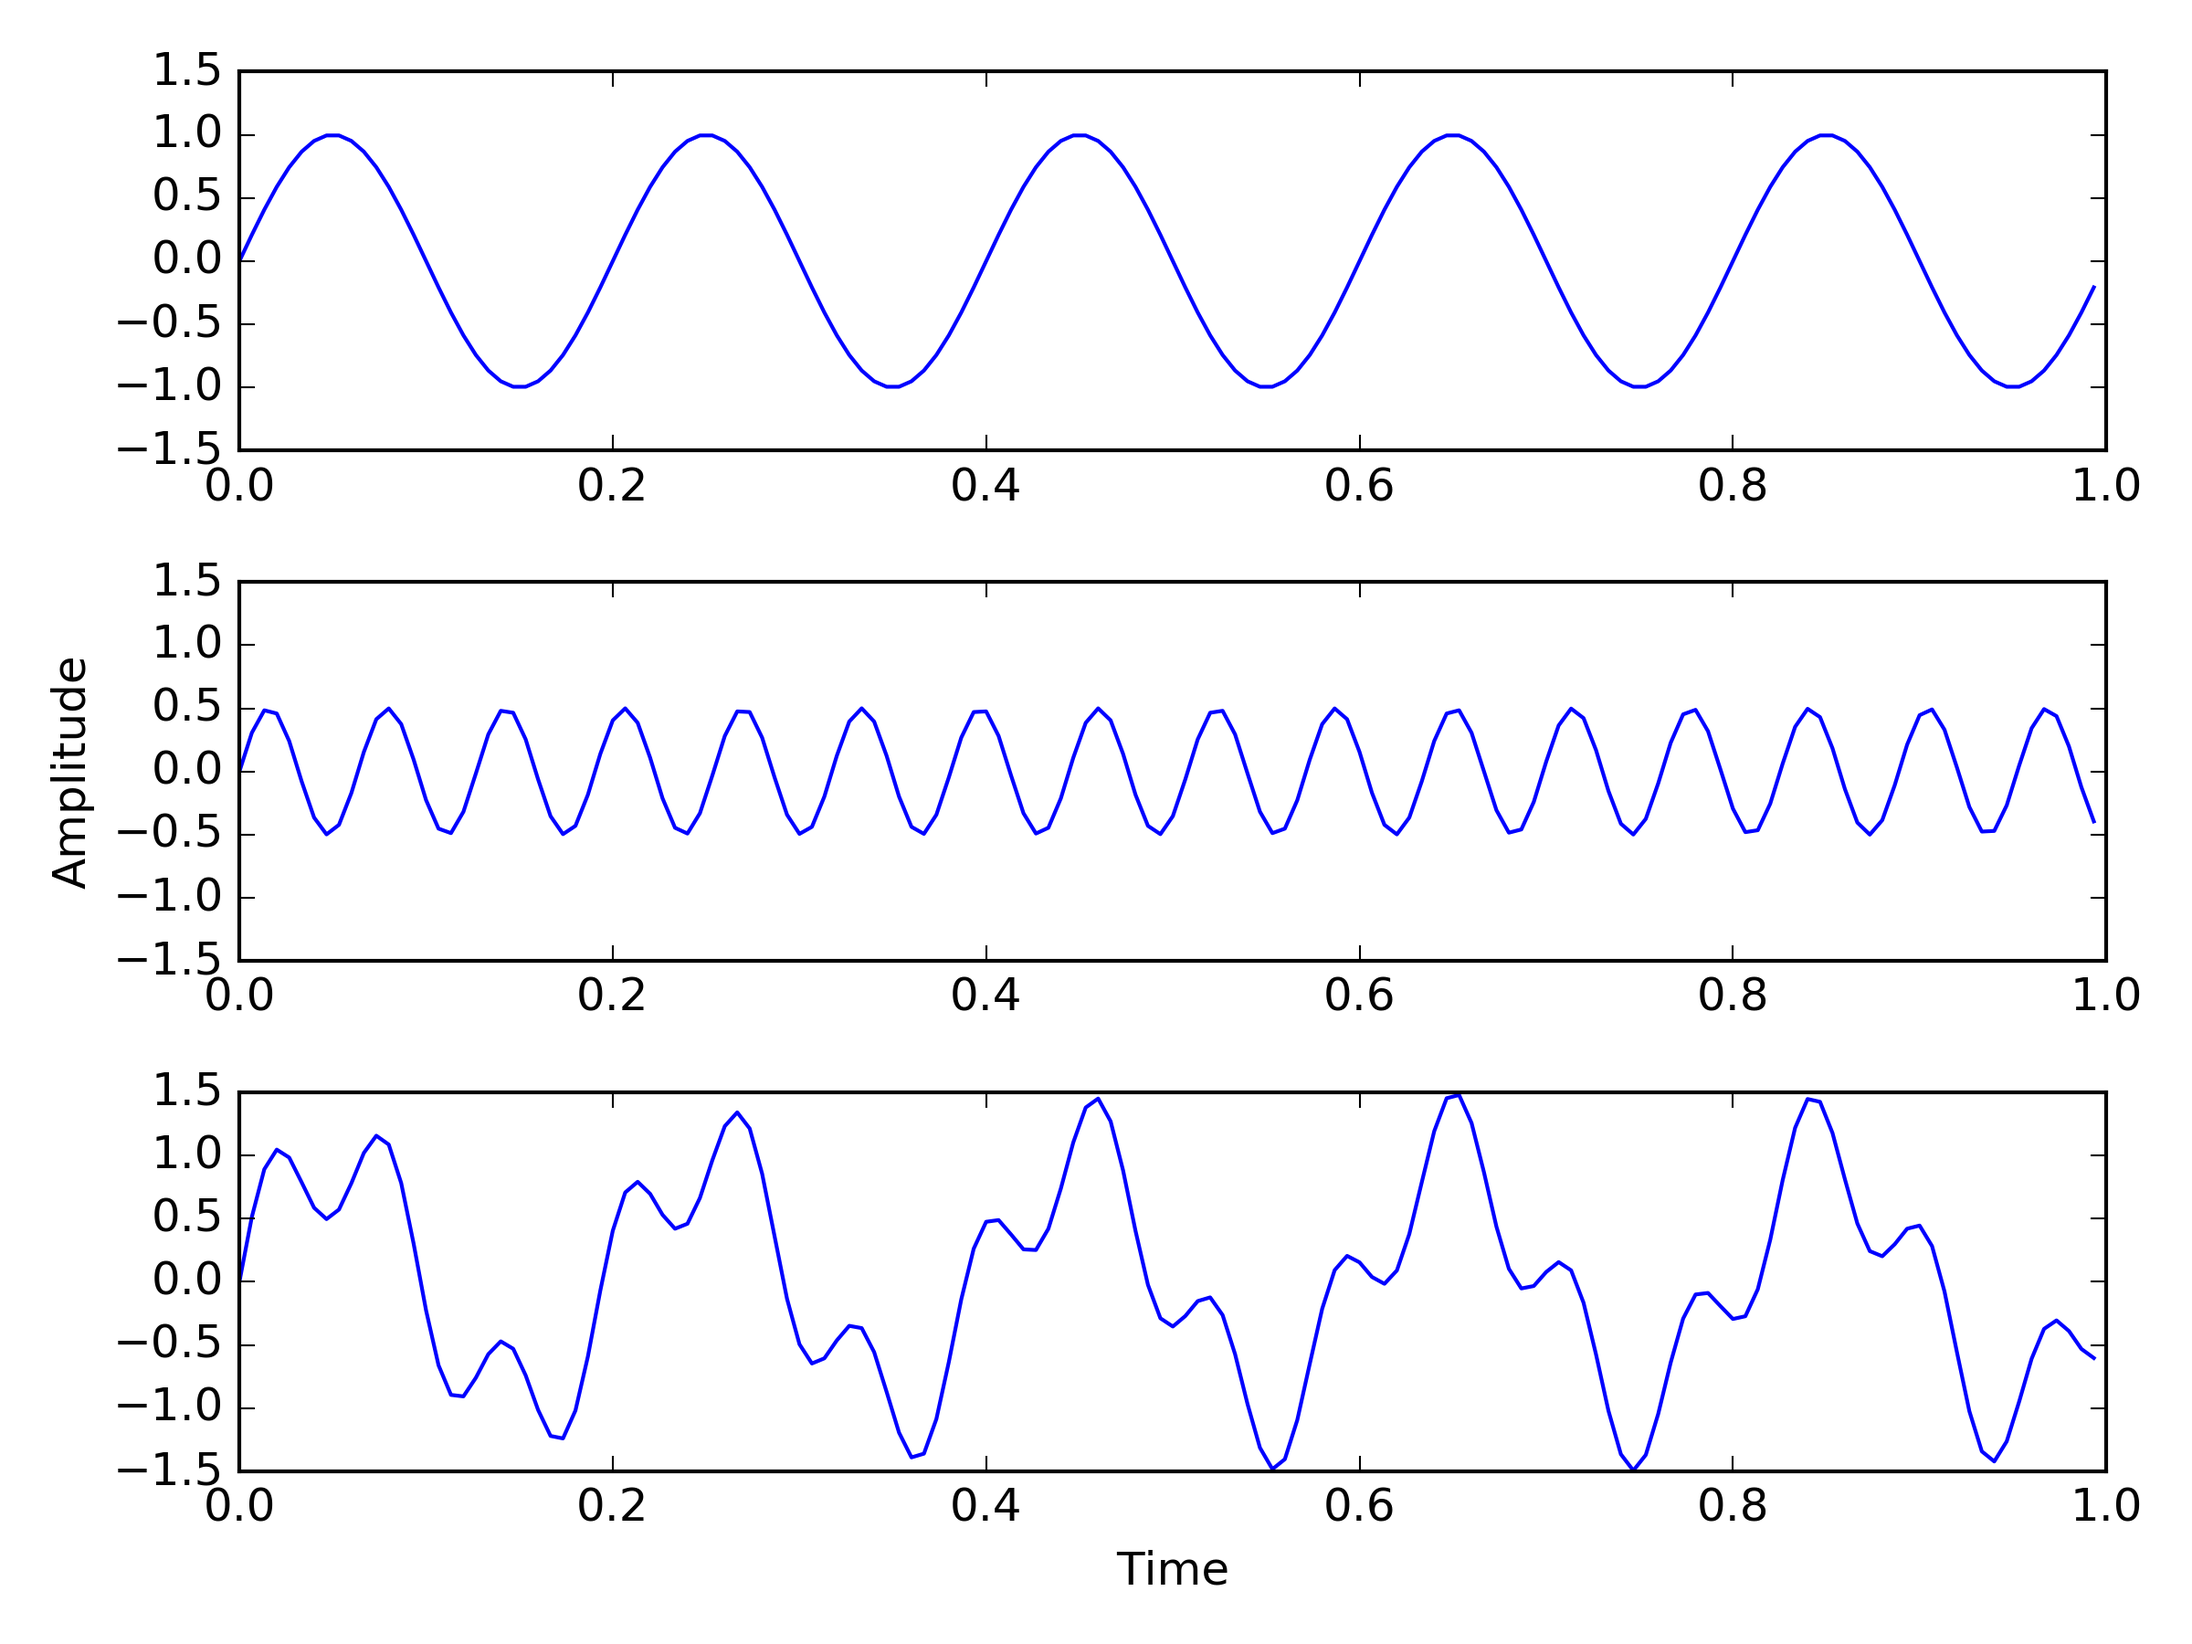
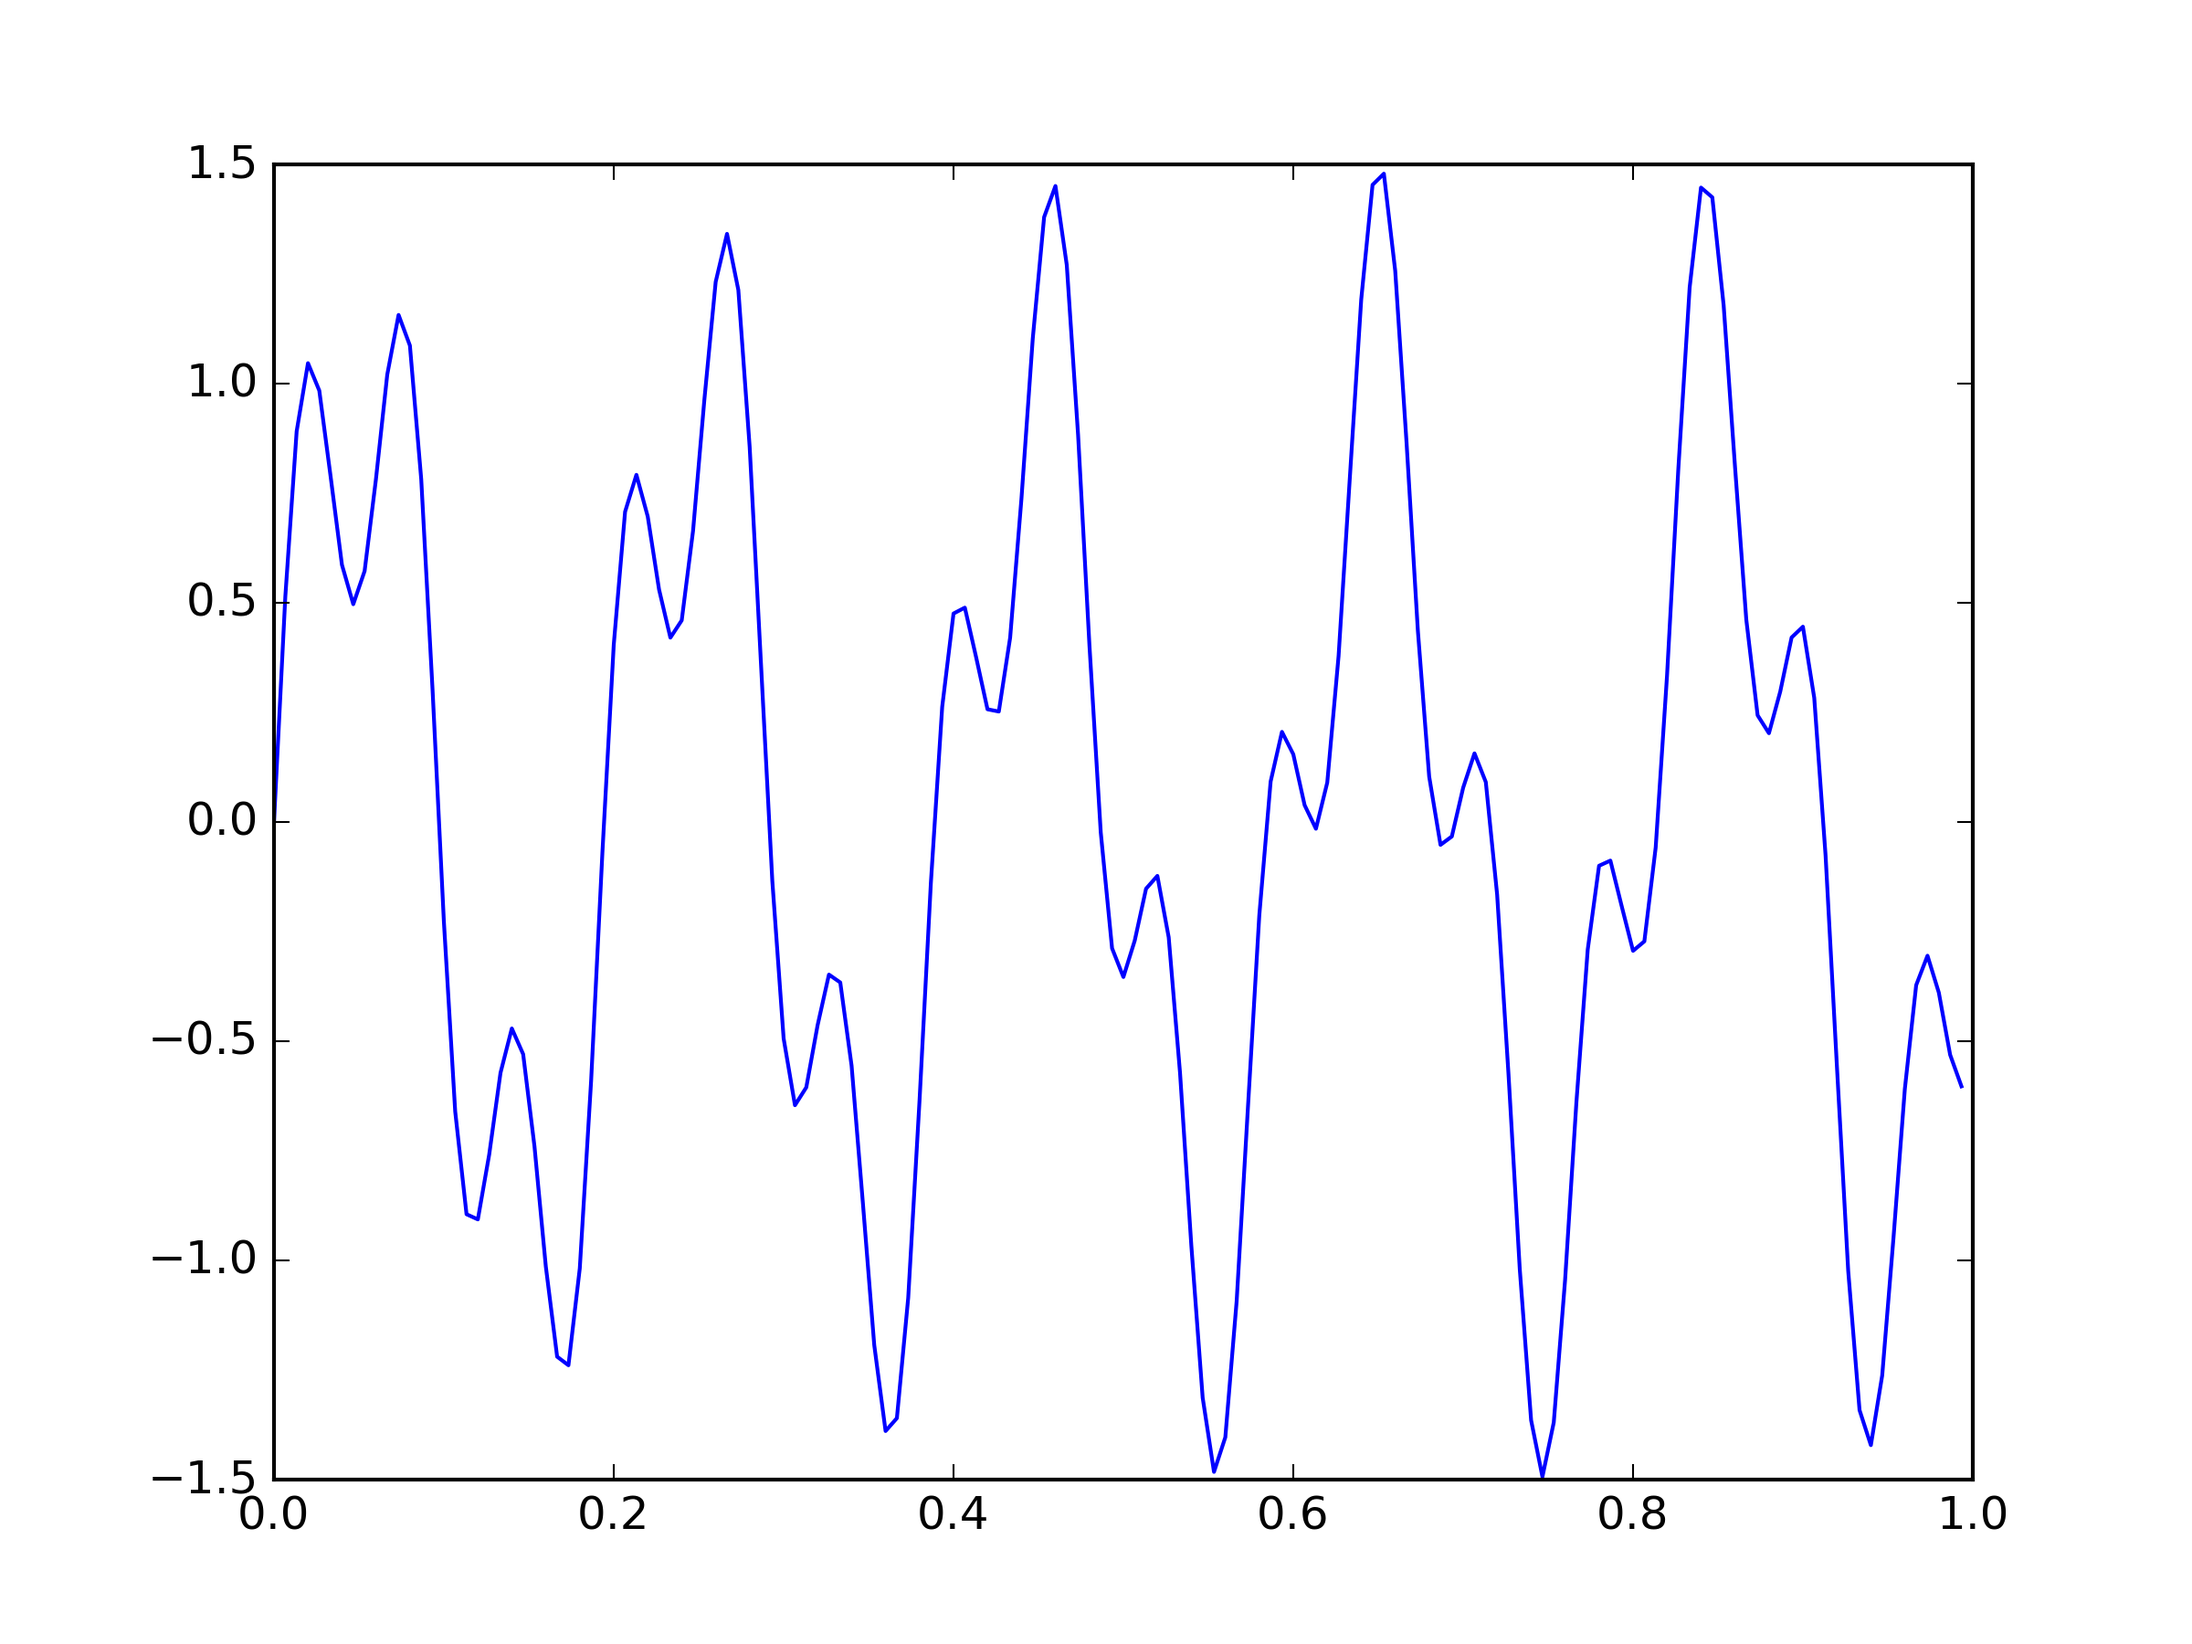
understanding 1d ft

diff --git a/examples_of_things/understanding_1d_fourier_transform.py b/examples_of_things/understanding_1d_fourier_transform.py
@@ -3,6 +3,8 @@ Quick pictoral walk through an FT of a 1D sine wave
 
 This has been modified from: https://plot.ly/matplotlib/fft/
 
+See also here: http://glowingpython.blogspot.co.uk/2011/08/how-to-plot-frequency-spectrum-with.html
+
 @author Chris
 @date 25/05/16
 """
@@ -40,6 +42,34 @@ plt.show(block=False)
 ofile="./combined_sine_wave.png"
 plt.tight_layout()
 plt.savefig(ofile, dpi=300, transparent=True)#, figsize= )
+
+
+ofile="./sine_wave_1.png"
+plt.plot(t,y)
+plt.ylim(-1.5, 1.5)
+#plt.show()
+plt.savefig(ofile, figsize=(3,1), dpi=300, transparent=True)
+plt.clf()
+
+ofile="./sine_wave_2.png"
+plt.plot(t,y2)
+plt.ylim(-1.5, 1.5)
+#plt.show()
+plt.savefig(ofile, figsize=(3,1), dpi=300, transparent=True)
+plt.clf()
+
+ofile="./combined_sine_wave.png"
+plt.plot(t,y3)
+plt.ylim(-1.5, 1.5)
+#plt.show()
+plt.savefig(ofile, figsize=(3,1), dpi=300, transparent=True)
+plt.clf()
+
+
+
+
+
+
 
 # calculate your frequencies
 n = len(y3) # length of the signal
